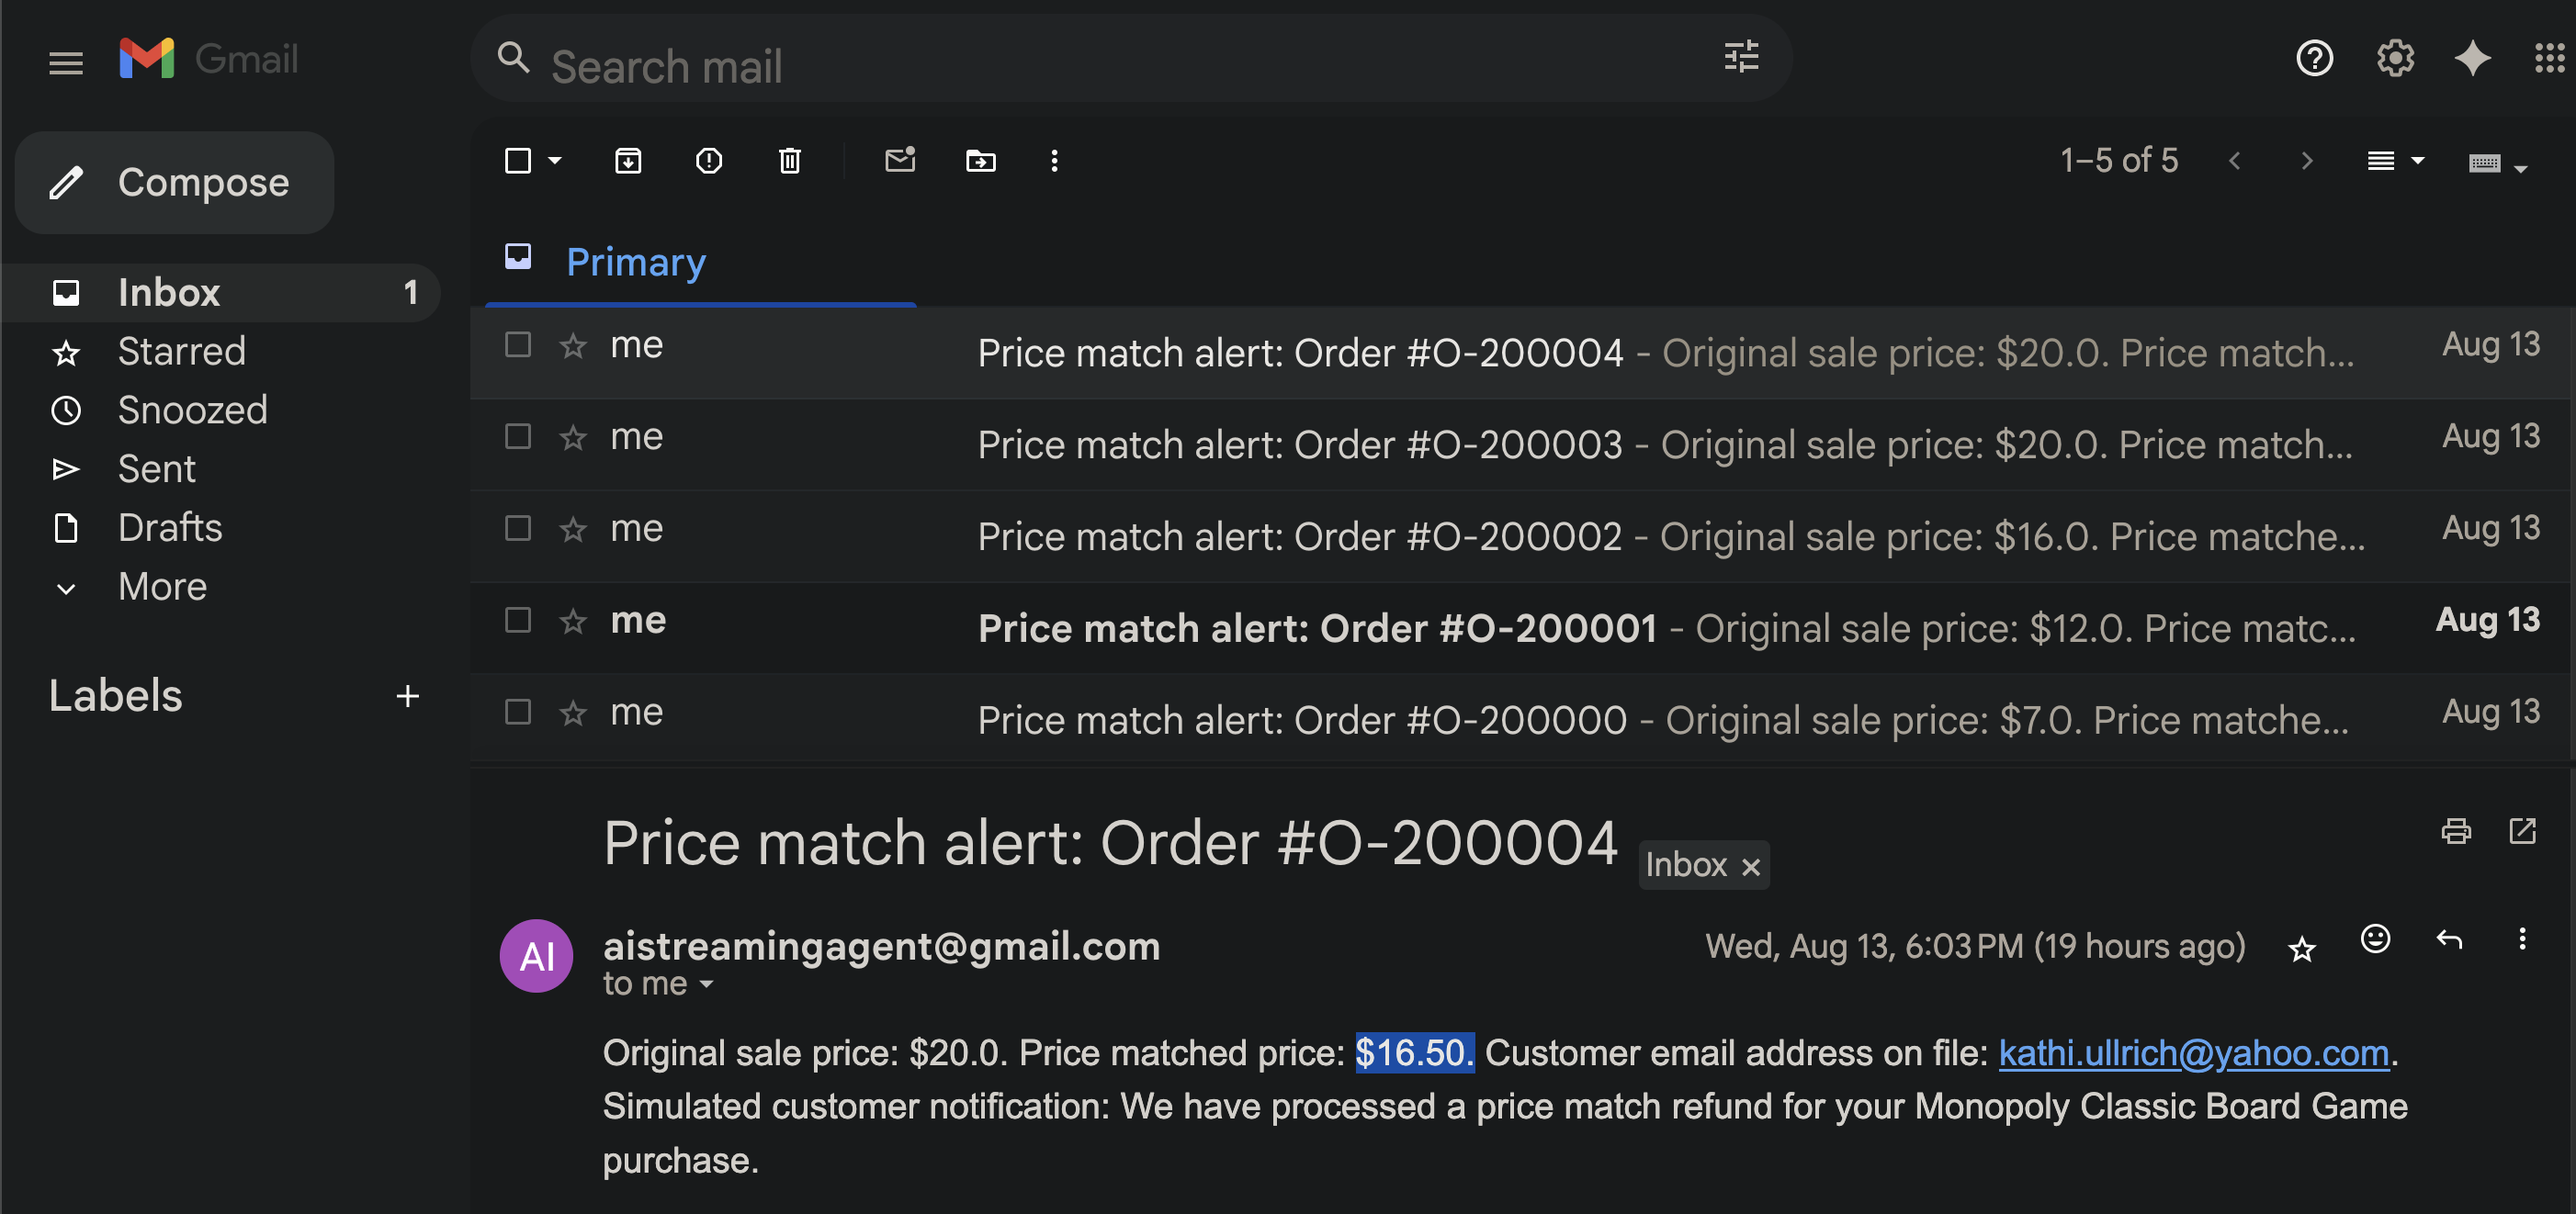
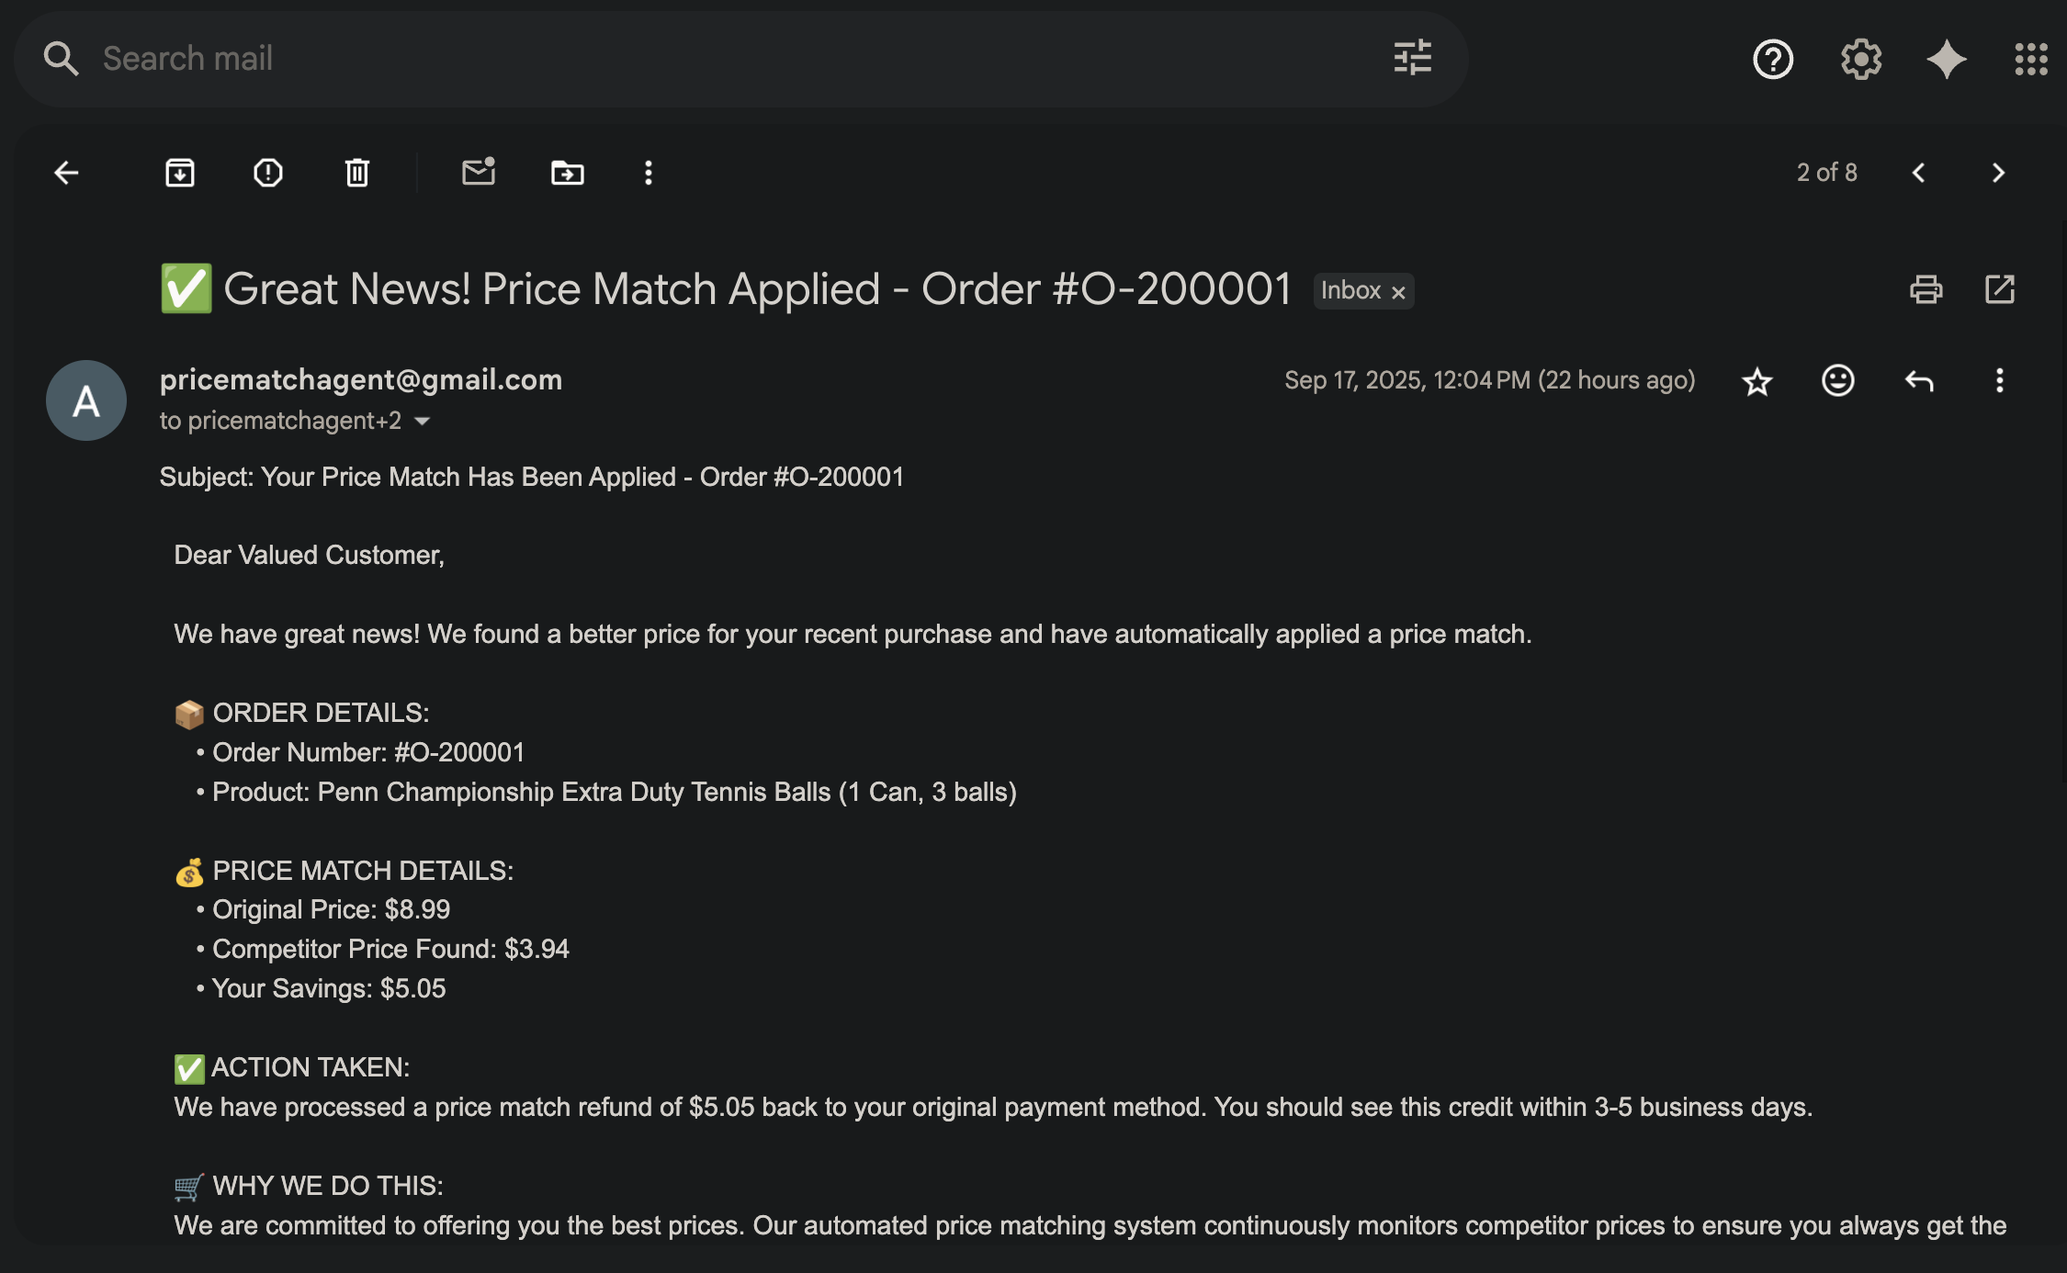
Fix/query3 hotfixes (#10)
* Fix decimal formatting in SQL statement 3 that sends the email.

* Fix issue where email would send to synthetic customer email address in body of email.

* Fix email formatting issue.

* Update Bedrock instructions, make run.sh executable.

diff --git a/LAB1-Tool-Calling/LAB1.md b/LAB1-Tool-Calling/LAB1.md
@@ -141,12 +141,13 @@ Start Agent 3 by running:
 ```sql
 -- Create and send professional email notifications for price matches
 CREATE TABLE price_match_email_results AS
-SELECT 
+SELECT
     scp.order_id,
     scp.customer_email,
     scp.product_name,
-    scp.order_price,
-    scp.competitor_price,
+    CAST(CAST(scp.order_price AS DECIMAL(10, 2)) AS STRING) as order_price,
+    CAST(CAST(scp.competitor_price AS DECIMAL(10, 2)) AS STRING) as competitor_price,
+    CAST(CAST((scp.order_price - scp.competitor_price) AS DECIMAL(10, 2)) AS STRING) as savings,
     AI_TOOL_INVOKE('zapier_mcp_model', 
                    CONCAT('Use the gmail_send_email tool to send an email. ',
                           'Instructions: send yourself an email to your own email address, ',
@@ -160,15 +161,14 @@ We have great news! We found a better price for your recent purchase and have au
 📦 ORDER DETAILS:
    • Order Number: #', scp.order_id, '
    • Product: ', scp.product_name, '
-   • Customer: ', scp.customer_email, '
 
 💰 PRICE MATCH DETAILS:
-   • Original Price: $', CAST(scp.order_price AS STRING), '
-   • Competitor Price Found: $', CAST(scp.competitor_price AS STRING), '
-   • Your Savings: $', CAST((scp.order_price - scp.competitor_price) AS STRING), '
+   • Original Price: $', CAST(CAST(scp.order_price AS DECIMAL(10, 2)) AS STRING), '
+   • Competitor Price Found: $', CAST(CAST(scp.competitor_price AS DECIMAL(10, 2)) AS STRING), '
+   • Your Savings: $', CAST(CAST((scp.order_price - scp.competitor_price) AS DECIMAL(10, 2)) AS STRING), '
 
 ✅ ACTION TAKEN:
-We have processed a price match refund of $', CAST((scp.order_price - scp.competitor_price) AS STRING), 
+We have processed a price match refund of $', CAST(CAST((scp.order_price - scp.competitor_price) AS DECIMAL(10, 2)) AS STRING), 
 ' back to your original payment method. You should see this credit within 3-5 business days.
 
 🛒 WHY WE DO THIS:

diff --git a/README.md b/README.md
@@ -187,7 +187,7 @@ Fill out the values for `prefix`, `cloud_provider`, `cloud_region`, `confluent_c
 To enable **Claude 3.7 Sonnet** in your AWS account via Amazon Bedrock:
 
 1. Open the [Amazon Bedrock Console](https://console.aws.amazon.com/bedrock/home?/overview), make sure you are in the same region.
-2. In the left sidebar, under **Bedrock configuration**, click **Model access**.
+2. In the left sidebar, under **Configure and learn**, click **Model access**.
 3. Locate **Claude 3.7 Sonnet** in the list of available models.
 4. Click **Available to request**, then select **Request model access**.
 5. In the request wizard, click **Next** and follow the prompts to complete the request.
